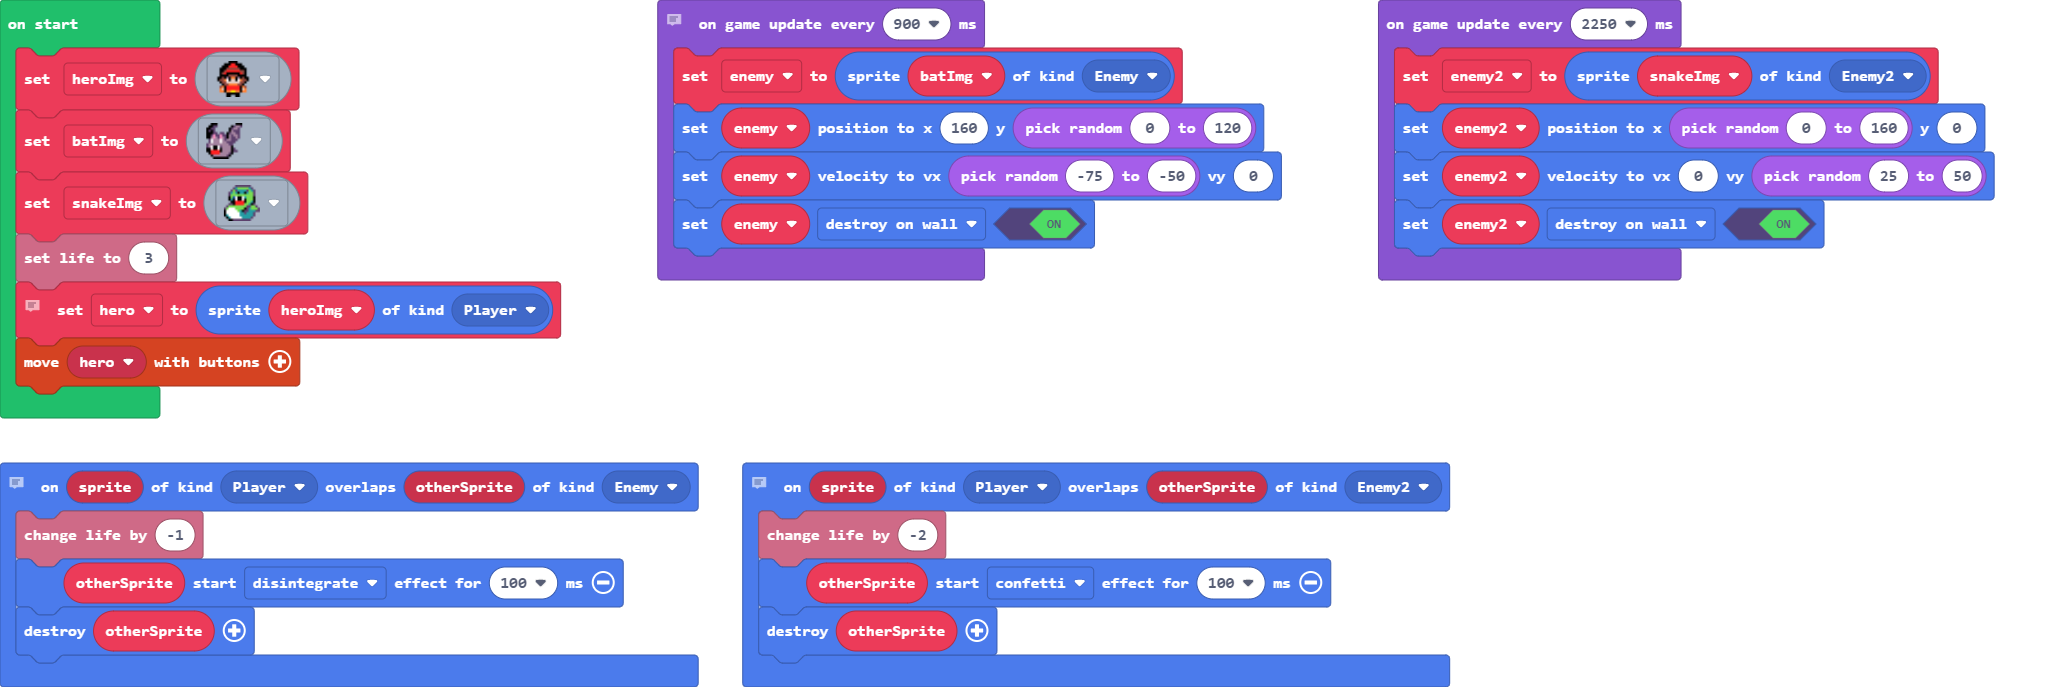
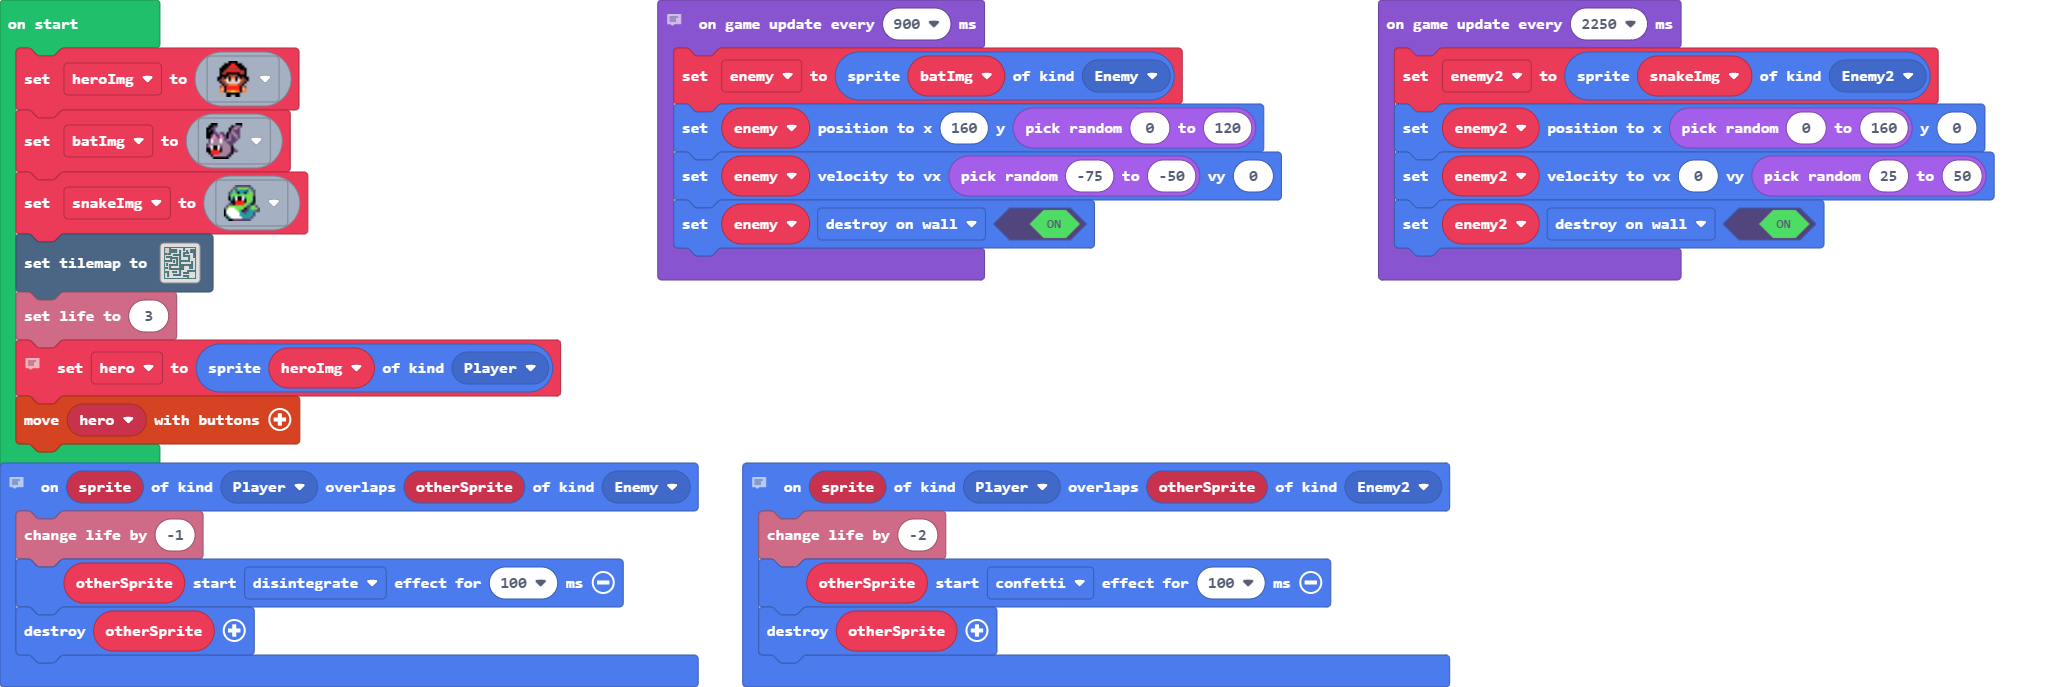
Update main.blocks, main.ts

Changed region(s): [[0.0, 0.3362, 0.2771, 0.6725]]

diff --git a/main.ts b/main.ts
@@ -18,6 +18,40 @@ let enemy: Sprite = null
 let heroImg = sprites.castle.heroWalkFront1
 let batImg = sprites.builtin.forestBat4
 let snakeImg = sprites.builtin.forestSnake2
[1 lines of base64/hex data omitted]
+    ................................
+    ................................
+    ................................
+    ................................
+    ................................
+    ................................
+    ................................
+    ................................
+    ................................
+    ................................
+    ................................
+    ................................
+    ................................
+    ................................
+    ................................
+    ................................
+    ................................
+    ................................
+    ................................
+    ................................
+    ................................
+    ................................
+    ................................
+    ................................
+    ................................
+    ................................
+    ................................
+    ................................
+    ................................
+    ................................
+    ................................
+    ................................
+    `, [myTiles.transparency16,sprites.dungeon.greenOuterSouth0,sprites.dungeon.greenOuterSouthEast,sprites.dungeon.greenOuterWest1,sprites.dungeon.greenOuterNorthWest,sprites.dungeon.greenOuterNorth0,sprites.dungeon.greenOuterNorthEast,sprites.dungeon.greenOuterSouthWest,sprites.dungeon.greenOuterEast0,sprites.dungeon.floorLight2,sprites.dungeon.greenInnerSouthWest,sprites.dungeon.greenInnerSouthEast,sprites.dungeon.greenInnerNorthEast,sprites.dungeon.greenInnerNorthWest,sprites.dungeon.stairSouth,sprites.dungeon.greenOuterNorth2,sprites.dungeon.greenOuterSouth2,sprites.dungeon.greenOuterEast2,sprites.dungeon.greenOuterWest2], TileScale.Sixteen))
 info.setLife(3)
 // Create hero sprite
 let hero = sprites.create(heroImg, SpriteKind.Player)
